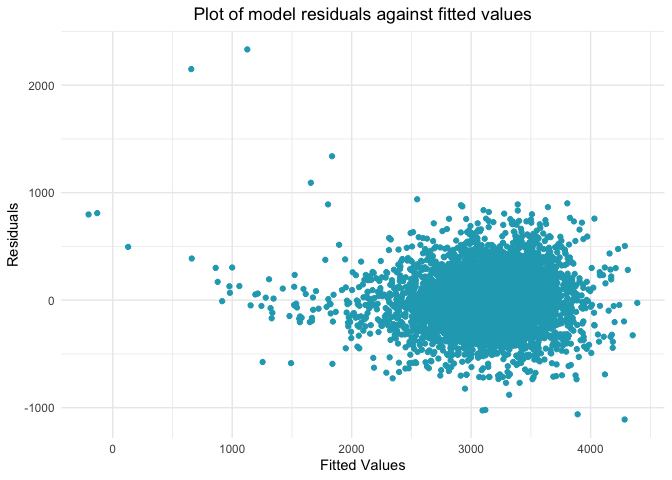
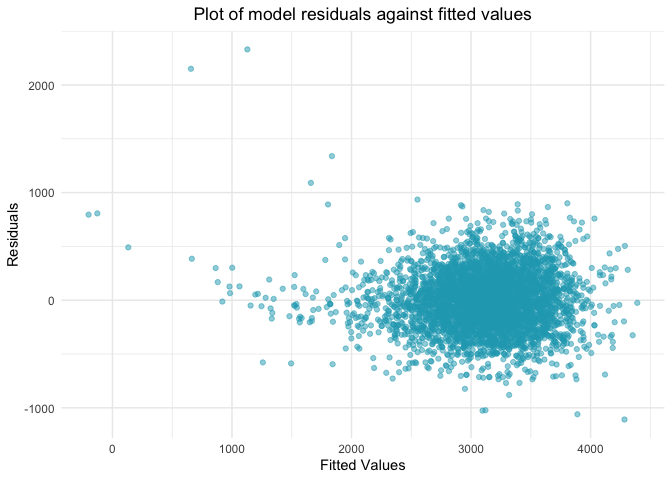
Making updates to HW6

diff --git a/p8105_hw6_jdr2191.md b/p8105_hw6_jdr2191.md
@@ -16,11 +16,24 @@ factor where appropriate, check for missing data, etc.).
 ``` r
 birthweight_df = 
   read_csv("birthweight.csv") %>%
-  mutate(babysex = factor(babysex, levels = c(1,2))) %>%
-  mutate(frace = factor(frace, levels = c(1,2,3,4,8,9))) %>%
-  mutate(malform = factor(malform, levels = c(0,1))) %>%
-  mutate(mrace = factor(mrace, levels = c(1,2,3,4,8)))
+  mutate(babysex = factor(babysex, levels = c(1,2), labels = c("male", "female"))) %>%
+  mutate(frace = factor(frace, levels = c(1,2,3,4,8,9), labels = c("White", "Black",
+                        "Asian", "Puerto Rican", "Other", "Unknown"))) %>%
+  mutate(malform = factor(malform, levels = c(0,1), labels = c("absent", "present"))) %>%
+  mutate(mrace = factor(mrace, levels = c(1,2,3,4,8,9), labels = c("White", "Black",
+                        "Asian", "Puerto Rican", "Other", "Unknown")))
+
+colSums(is.na(birthweight_df))
 ```
+
+    ##  babysex    bhead  blength      bwt    delwt  fincome    frace  gaweeks 
+    ##        0        0        0        0        0        0        0        0 
+    ##  malform menarche  mheight   momage    mrace   parity  pnumlbw  pnumsga 
+    ##        0        0        0        0        0        0        0        0 
+    ##    ppbmi     ppwt   smoken   wtgain 
+    ##        0        0        0        0
+
+There are no missing values in the `birthweight_df` dataset.
 
 Propose a regression model for birthweight.
 
@@ -53,7 +66,7 @@ predictors.
 
 ``` r
 model0 = lm(bwt ~ delwt + frace + mrace + smoken + gaweeks + ppbmi + babysex + bhead +
-                  blength + parity + momage + wtgain + malform, data = birthweight_df)
+                  blength + momage + wtgain + malform, data = birthweight_df)
 
 summary(model0)
 ```
@@ -61,40 +74,39 @@ summary(model0)
     ## 
     ## Call:
     ## lm(formula = bwt ~ delwt + frace + mrace + smoken + gaweeks + 
-    ##     ppbmi + babysex + bhead + blength + parity + momage + wtgain + 
-    ##     malform, data = birthweight_df)
+    ##     ppbmi + babysex + bhead + blength + momage + wtgain + malform, 
+    ##     data = birthweight_df)
     ## 
     ## Residuals:
     ##      Min       1Q   Median       3Q      Max 
-    ## -1101.27  -183.53    -2.95   173.34  2341.80 
+    ## -1099.47  -184.34    -3.09   174.64  2340.04 
     ## 
     ## Coefficients:
-    ##               Estimate Std. Error t value Pr(>|t|)    
-    ## (Intercept) -5685.3994   103.0595 -55.166  < 2e-16 ***
-    ## delwt           3.0661     0.4128   7.428 1.32e-13 ***
-    ## frace2          9.9554    46.1024   0.216 0.829044    
-    ## frace3         16.6613    69.2838   0.240 0.809971    
-    ## frace4        -51.6672    44.6414  -1.157 0.247180    
-    ## frace8         -0.9590    74.0242  -0.013 0.989664    
-    ## mrace2       -153.0202    46.0386  -3.324 0.000896 ***
-    ## mrace3        -96.8219    71.8887  -1.347 0.178105    
-    ## mrace4        -58.8798    45.1130  -1.305 0.191907    
-    ## smoken         -4.9007     0.5868  -8.351  < 2e-16 ***
-    ## gaweeks        11.5804     1.4654   7.903 3.44e-15 ***
-    ## ppbmi          -9.4649     2.5743  -3.677 0.000239 ***
-    ## babysex2       28.6284     8.4674   3.381 0.000729 ***
-    ## bhead         131.0029     3.4492  37.981  < 2e-16 ***
-    ## blength        74.9075     2.0200  37.082  < 2e-16 ***
-    ## parity         92.0419    40.4572   2.275 0.022952 *  
-    ## momage          0.9297     1.1733   0.792 0.428168    
-    ## wtgain          1.0510     0.5723   1.837 0.066346 .  
-    ## malform1        7.5425    70.6214   0.107 0.914951    
+    ##                     Estimate Std. Error t value Pr(>|t|)    
+    ## (Intercept)       -5680.2306   103.0842 -55.103  < 2e-16 ***
+    ## delwt                 3.0505     0.4129   7.387 1.79e-13 ***
+    ## fraceBlack           10.1307    46.1246   0.220 0.826164    
+    ## fraceAsian           16.2216    69.3170   0.234 0.814980    
+    ## fracePuerto Rican   -51.8627    44.6629  -1.161 0.245623    
+    ## fraceOther           -0.8716    74.0600  -0.012 0.990611    
+    ## mraceBlack         -152.8119    46.0607  -3.318 0.000915 ***
+    ## mraceAsian          -97.4291    71.9229  -1.355 0.175606    
+    ## mracePuerto Rican   -58.9447    45.1348  -1.306 0.191632    
+    ## smoken               -4.9042     0.5871  -8.353  < 2e-16 ***
+    ## gaweeks              11.3054     1.4611   7.738 1.25e-14 ***
+    ## ppbmi                -9.4065     2.5754  -3.652 0.000263 ***
+    ## babysexfemale        29.2052     8.4676   3.449 0.000568 ***
+    ## bhead               131.1376     3.4503  38.007  < 2e-16 ***
+    ## blength              74.8523     2.0209  37.040  < 2e-16 ***
+    ## momage                1.1156     1.1710   0.953 0.340808    
+    ## wtgain                1.0934     0.5722   1.911 0.056114 .  
+    ## malformpresent        6.9751    70.6550   0.099 0.921364    
     ## ---
     ## Signif. codes:  0 '***' 0.001 '**' 0.01 '*' 0.05 '.' 0.1 ' ' 1
     ## 
-    ## Residual standard error: 272.5 on 4323 degrees of freedom
-    ## Multiple R-squared:  0.718,  Adjusted R-squared:  0.7168 
-    ## F-statistic: 611.4 on 18 and 4323 DF,  p-value: < 2.2e-16
+    ## Residual standard error: 272.7 on 4324 degrees of freedom
+    ## Multiple R-squared:  0.7176, Adjusted R-squared:  0.7165 
+    ## F-statistic: 646.5 on 17 and 4324 DF,  p-value: < 2.2e-16
 
 Based on these results, it looks like frace, momage, wtgain and malform
 are not significant predictors of bwt (all have p-values \< 0.05). I
@@ -102,8 +114,7 @@ will remove these variables from the next iteration of the model, and
 this iteration will be my proposed model for birthweight.
 
 ``` r
-model1 = lm(bwt ~ delwt + mrace + smoken + gaweeks + ppbmi + babysex + bhead + blength + 
-                  parity, data = birthweight_df)
+model1 = lm(bwt ~ delwt + mrace + smoken + gaweeks + ppbmi + babysex + bhead + blength, data = birthweight_df)
 
 summary(model1)
 ```
@@ -111,53 +122,51 @@ summary(model1)
     ## 
     ## Call:
     ## lm(formula = bwt ~ delwt + mrace + smoken + gaweeks + ppbmi + 
-    ##     babysex + bhead + blength + parity, data = birthweight_df)
+    ##     babysex + bhead + blength, data = birthweight_df)
     ## 
     ## Residuals:
     ##      Min       1Q   Median       3Q      Max 
-    ## -1109.86  -182.66    -4.67   176.19  2332.72 
+    ## -1108.51  -182.60    -4.38   176.49  2330.33 
     ## 
     ## Coefficients:
-    ##               Estimate Std. Error t value Pr(>|t|)    
-    ## (Intercept) -5668.9277   101.1180 -56.063  < 2e-16 ***
-    ## delwt           3.6182     0.2842  12.730  < 2e-16 ***
-    ## mrace2       -144.4365     9.2061 -15.689  < 2e-16 ***
-    ## mrace3        -77.5044    42.2866  -1.833 0.066896 .  
-    ## mrace4       -102.3222    18.8609  -5.425 6.11e-08 ***
-    ## smoken         -4.8796     0.5857  -8.331  < 2e-16 ***
-    ## gaweeks        11.8295     1.4591   8.107 6.68e-16 ***
-    ## ppbmi         -12.5487     1.9161  -6.549 6.47e-11 ***
-    ## babysex2       27.8875     8.4551   3.298 0.000981 ***
-    ## bhead         131.2566     3.4447  38.104  < 2e-16 ***
-    ## blength        74.7819     2.0181  37.055  < 2e-16 ***
-    ## parity         95.9560    40.3408   2.379 0.017420 *  
+    ##                     Estimate Std. Error t value Pr(>|t|)    
+    ## (Intercept)       -5660.2709   101.1068 -55.983  < 2e-16 ***
+    ## delwt                 3.6250     0.2844  12.747  < 2e-16 ***
+    ## mraceBlack         -144.5198     9.2110 -15.690  < 2e-16 ***
+    ## mraceAsian          -77.6223    42.3093  -1.835  0.06663 .  
+    ## mracePuerto Rican  -102.6952    18.8704  -5.442 5.56e-08 ***
+    ## smoken               -4.8843     0.5860  -8.335  < 2e-16 ***
+    ## gaweeks              11.5615     1.4556   7.943 2.50e-15 ***
+    ## ppbmi               -12.5945     1.9171  -6.570 5.64e-11 ***
+    ## babysexfemale        28.4315     8.4566   3.362  0.00078 ***
+    ## bhead               131.4151     3.4459  38.136  < 2e-16 ***
+    ## blength              74.7141     2.0190  37.006  < 2e-16 ***
     ## ---
     ## Signif. codes:  0 '***' 0.001 '**' 0.01 '*' 0.05 '.' 0.1 ' ' 1
     ## 
-    ## Residual standard error: 272.5 on 4330 degrees of freedom
-    ## Multiple R-squared:  0.7176, Adjusted R-squared:  0.7169 
-    ## F-statistic:  1000 on 11 and 4330 DF,  p-value: < 2.2e-16
+    ## Residual standard error: 272.6 on 4331 degrees of freedom
+    ## Multiple R-squared:  0.7173, Adjusted R-squared:  0.7166 
+    ## F-statistic:  1099 on 10 and 4331 DF,  p-value: < 2.2e-16
 
 ``` r
 model1 %>%
   broom::tidy()
 ```
 
-    ## # A tibble: 12 × 5
-    ##    term        estimate std.error statistic   p.value
-    ##    <chr>          <dbl>     <dbl>     <dbl>     <dbl>
-    ##  1 (Intercept) -5669.     101.       -56.1  0        
-    ##  2 delwt           3.62     0.284     12.7  1.81e- 36
-    ##  3 mrace2       -144.       9.21     -15.7  5.37e- 54
-    ##  4 mrace3        -77.5     42.3       -1.83 6.69e-  2
-    ##  5 mrace4       -102.      18.9       -5.43 6.11e-  8
-    ##  6 smoken         -4.88     0.586     -8.33 1.06e- 16
-    ##  7 gaweeks        11.8      1.46       8.11 6.68e- 16
-    ##  8 ppbmi         -12.5      1.92      -6.55 6.47e- 11
-    ##  9 babysex2       27.9      8.46       3.30 9.81e-  4
-    ## 10 bhead         131.       3.44      38.1  3.14e-274
-    ## 11 blength        74.8      2.02      37.1  2.56e-261
-    ## 12 parity         96.0     40.3        2.38 1.74e-  2
+    ## # A tibble: 11 × 5
+    ##    term              estimate std.error statistic   p.value
+    ##    <chr>                <dbl>     <dbl>     <dbl>     <dbl>
+    ##  1 (Intercept)       -5660.     101.       -56.0  0        
+    ##  2 delwt                 3.62     0.284     12.7  1.46e- 36
+    ##  3 mraceBlack         -145.       9.21     -15.7  5.30e- 54
+    ##  4 mraceAsian          -77.6     42.3       -1.83 6.66e-  2
+    ##  5 mracePuerto Rican  -103.      18.9       -5.44 5.56e-  8
+    ##  6 smoken               -4.88     0.586     -8.33 1.03e- 16
+    ##  7 gaweeks              11.6      1.46       7.94 2.50e- 15
+    ##  8 ppbmi               -12.6      1.92      -6.57 5.64e- 11
+    ##  9 babysexfemale        28.4      8.46       3.36 7.80e-  4
+    ## 10 bhead               131.       3.45      38.1  1.21e-274
+    ## 11 blength              74.7      2.02      37.0  1.02e-260
 
 Diagnostics
 
@@ -168,16 +177,16 @@ modelr::add_residuals(birthweight_df, model1)
     ## # A tibble: 4,342 × 21
     ##    babysex bhead blength   bwt delwt fincome frace gaweeks malform menarche
     ##    <fct>   <dbl>   <dbl> <dbl> <dbl>   <dbl> <fct>   <dbl> <fct>      <dbl>
-    ##  1 2          34      51  3629   177      35 1        39.9 0             13
-    ##  2 1          34      48  3062   156      65 2        25.9 0             14
-    ##  3 2          36      50  3345   148      85 1        39.9 0             12
-    ##  4 1          34      52  3062   157      55 1        40   0             14
-    ##  5 2          34      52  3374   156       5 1        41.6 0             13
-    ##  6 1          33      52  3374   129      55 1        40.7 0             12
-    ##  7 2          33      46  2523   126      96 2        40.3 0             14
-    ##  8 2          33      49  2778   140       5 1        37.4 0             12
-    ##  9 1          36      52  3515   146      85 1        40.3 0             11
-    ## 10 1          33      50  3459   169      75 2        40.7 0             12
+    ##  1 female     34      51  3629   177      35 White    39.9 absent        13
+    ##  2 male       34      48  3062   156      65 Black    25.9 absent        14
+    ##  3 female     36      50  3345   148      85 White    39.9 absent        12
+    ##  4 male       34      52  3062   157      55 White    40   absent        14
+    ##  5 female     34      52  3374   156       5 White    41.6 absent        13
+    ##  6 male       33      52  3374   129      55 White    40.7 absent        12
+    ##  7 female     33      46  2523   126      96 Black    40.3 absent        14
+    ##  8 female     33      49  2778   140       5 White    37.4 absent        12
+    ##  9 male       36      52  3515   146      85 White    40.3 absent        11
+    ## 10 male       33      50  3459   169      75 Black    40.7 absent        12
     ## # … with 4,332 more rows, and 11 more variables: mheight <dbl>, momage <dbl>,
     ## #   mrace <fct>, parity <dbl>, pnumlbw <dbl>, pnumsga <dbl>, ppbmi <dbl>,
     ## #   ppwt <dbl>, smoken <dbl>, wtgain <dbl>, resid <dbl>
@@ -189,16 +198,16 @@ modelr::add_predictions(birthweight_df, model1)
     ## # A tibble: 4,342 × 21
     ##    babysex bhead blength   bwt delwt fincome frace gaweeks malform menarche
     ##    <fct>   <dbl>   <dbl> <dbl> <dbl>   <dbl> <fct>   <dbl> <fct>      <dbl>
-    ##  1 2          34      51  3629   177      35 1        39.9 0             13
-    ##  2 1          34      48  3062   156      65 2        25.9 0             14
-    ##  3 2          36      50  3345   148      85 1        39.9 0             12
-    ##  4 1          34      52  3062   157      55 1        40   0             14
-    ##  5 2          34      52  3374   156       5 1        41.6 0             13
-    ##  6 1          33      52  3374   129      55 1        40.7 0             12
-    ##  7 2          33      46  2523   126      96 2        40.3 0             14
-    ##  8 2          33      49  2778   140       5 1        37.4 0             12
-    ##  9 1          36      52  3515   146      85 1        40.3 0             11
-    ## 10 1          33      50  3459   169      75 2        40.7 0             12
+    ##  1 female     34      51  3629   177      35 White    39.9 absent        13
+    ##  2 male       34      48  3062   156      65 Black    25.9 absent        14
+    ##  3 female     36      50  3345   148      85 White    39.9 absent        12
+    ##  4 male       34      52  3062   157      55 White    40   absent        14
+    ##  5 female     34      52  3374   156       5 White    41.6 absent        13
+    ##  6 male       33      52  3374   129      55 White    40.7 absent        12
+    ##  7 female     33      46  2523   126      96 Black    40.3 absent        14
+    ##  8 female     33      49  2778   140       5 White    37.4 absent        12
+    ##  9 male       36      52  3515   146      85 White    40.3 absent        11
+    ## 10 male       33      50  3459   169      75 Black    40.7 absent        12
     ## # … with 4,332 more rows, and 11 more variables: mheight <dbl>, momage <dbl>,
     ## #   mrace <fct>, parity <dbl>, pnumlbw <dbl>, pnumsga <dbl>, ppbmi <dbl>,
     ## #   ppwt <dbl>, smoken <dbl>, wtgain <dbl>, pred <dbl>
@@ -208,7 +217,7 @@ birthweight_df %>%
   modelr::add_residuals(model1) %>%
   modelr::add_predictions(model1) %>%
   ggplot(aes(x = pred, y = resid)) +
-  geom_point(color = "#21A8BD") +
+  geom_point(color = "#21A8BD", alpha = 0.5) +
   labs(x = "Fitted Values", y = "Residuals") + 
   ggtitle("Plot of model residuals against fitted values") +
   theme_minimal() +
@@ -227,8 +236,7 @@ Compare your model to two others:
 
 ``` r
 model2 = lm(bwt ~ blength + gaweeks, data = birthweight_df)
-model3 = lm(bwt ~ bhead + blength + babysex + bhead * blength + bhead * babysex +
-                  blength * babysex + bhead * blength * babysex, data = birthweight_df)
+model3 = lm(bwt ~ bhead * blength * babysex, data = birthweight_df)
 ```
 
 Make this comparison in terms of the cross-validated prediction error
@@ -243,10 +251,9 @@ cv_df =
 cv_df2 = 
 cv_df %>%
   mutate(
-    model1 = map(train, ~lm(bwt ~ delwt + mrace + smoken + gaweeks + 
-                                  ppbmi + babysex + bhead + blength + parity, data = .x)), 
+    model1 = map(train, ~lm(bwt ~ delwt + mrace + smoken + gaweeks + ppbmi + babysex + bhead + blength, data = .x)), 
     model2 = map(train, ~lm(bwt ~ blength + gaweeks, data = .x)), 
-    model3 = map(train, ~lm(bwt ~ bhead + blength * babysex * bhead, data = .x))
+    model3 = map(train, ~lm(bwt ~ bhead * blength * babysex, data = .x))
   ) %>%
   mutate(
     rmse_model1 = map2_dbl(model1, test, ~rmse(model = .x, data = .y)), 
@@ -254,9 +261,6 @@ cv_df %>%
     rmse_model3 = map2_dbl(model3, test, ~rmse(model = .x, data = .y))
   )
 ```
-
-    ## Warning in predict.lm(model, data): prediction from a rank-deficient fit may be
-    ## misleading
 
 Look at output
 
@@ -283,7 +287,9 @@ cv_df2 %>%
 
 As seen by the plot, the RMSE for my model (model1) is smaller than the
 RMSE for the other two models (model2 and model3), indicating that my
-model is a better fit for the data than these other models.
+model is a better fit for the data than these other models. Model 2 (the
+model that does not include interaction terms) has the highest RMSE,
+indicating that it is the worst fit for the data.
 
 ## Problem 2
 
@@ -306,6 +312,8 @@ weather_df =
 Boostrapping weather dataset.
 
 ``` r
+set.seed(10)
+
 weather_df2 =
 weather_df %>% 
   modelr::bootstrap(n = 5000) %>% 
@@ -331,7 +339,7 @@ wide_weather_df =
 
 weather_df4 = 
 wide_weather_df %>%
-  mutate(logb0b1 = log(Intercept)*log(tmin)) %>%
+  mutate(logb0b1 = log(Intercept) + log(tmin)) %>%
   select(.id, r.squared, logb0b1) 
 ```
 
@@ -360,6 +368,9 @@ weather_df4 %>%
 ```
 
 ![](p8105_hw6_jdr2191_files/figure-gfm/weather_df_plots-2.png)<!-- -->
+Both plots are roughly normally distributed. The plot of
+log (*β̂*<sub>0</sub>\**β̂*<sub>1</sub>) is centered around 2.01 and the
+plot of *r̂*<sup>2</sup> is centered around 0.91.
 
 Identify the 2.5% and 97.5% quantiles to provide 95% confidence
 intervals for R squared and Log (Beta 0 \* Beta 1)
@@ -375,5 +386,10 @@ sapply(weather_df5, function(x) quantile(x, probs = c(0.025, 0.975))) %>%
 
 |       | r.squared |  logb0b1 |
 |:------|----------:|---------:|
-| 2.5%  | 0.8940627 | 0.010528 |
-| 97.5% | 0.9271300 | 0.132867 |
+| 2.5%  | 0.8938410 | 1.964572 |
+| 97.5% | 0.9275271 | 2.059126 |
+
+The 95% CI for *r̂*<sup>2</sup> is (0.8938, 0.9275).
+
+The 95% CI for log (*β̂*<sub>0</sub>\**β̂*<sub>1</sub>) is (1.9646,
+2.0591).
